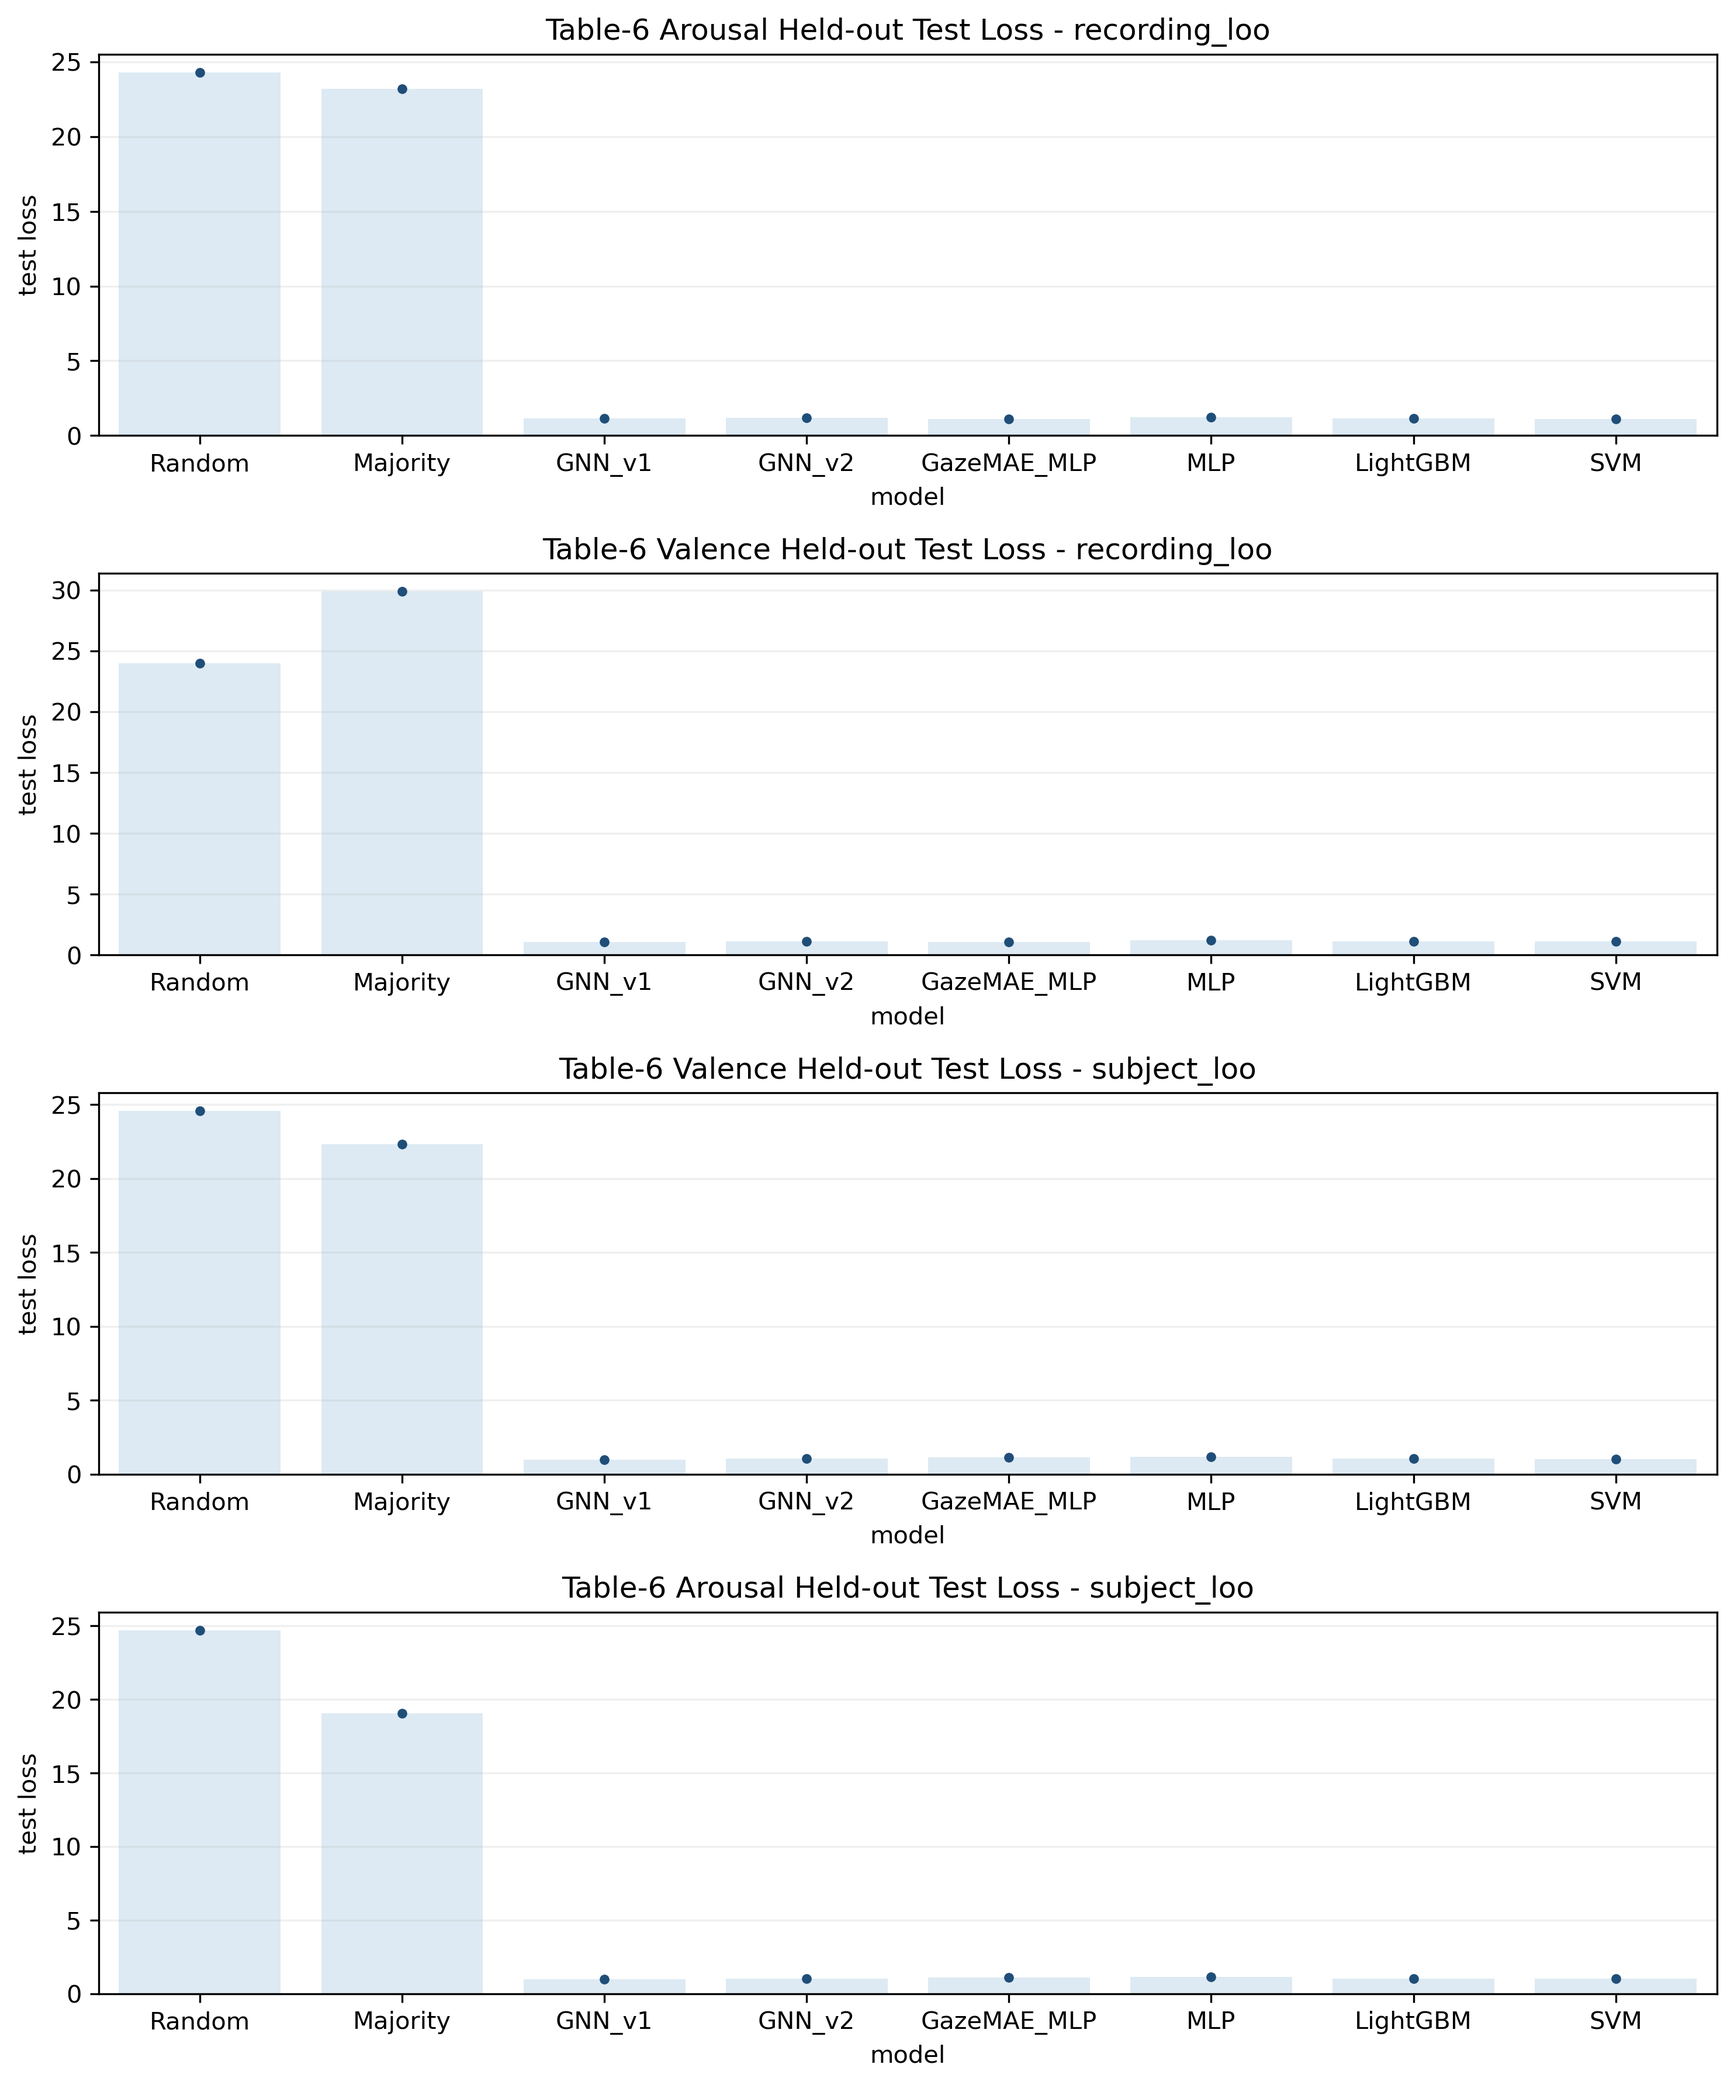
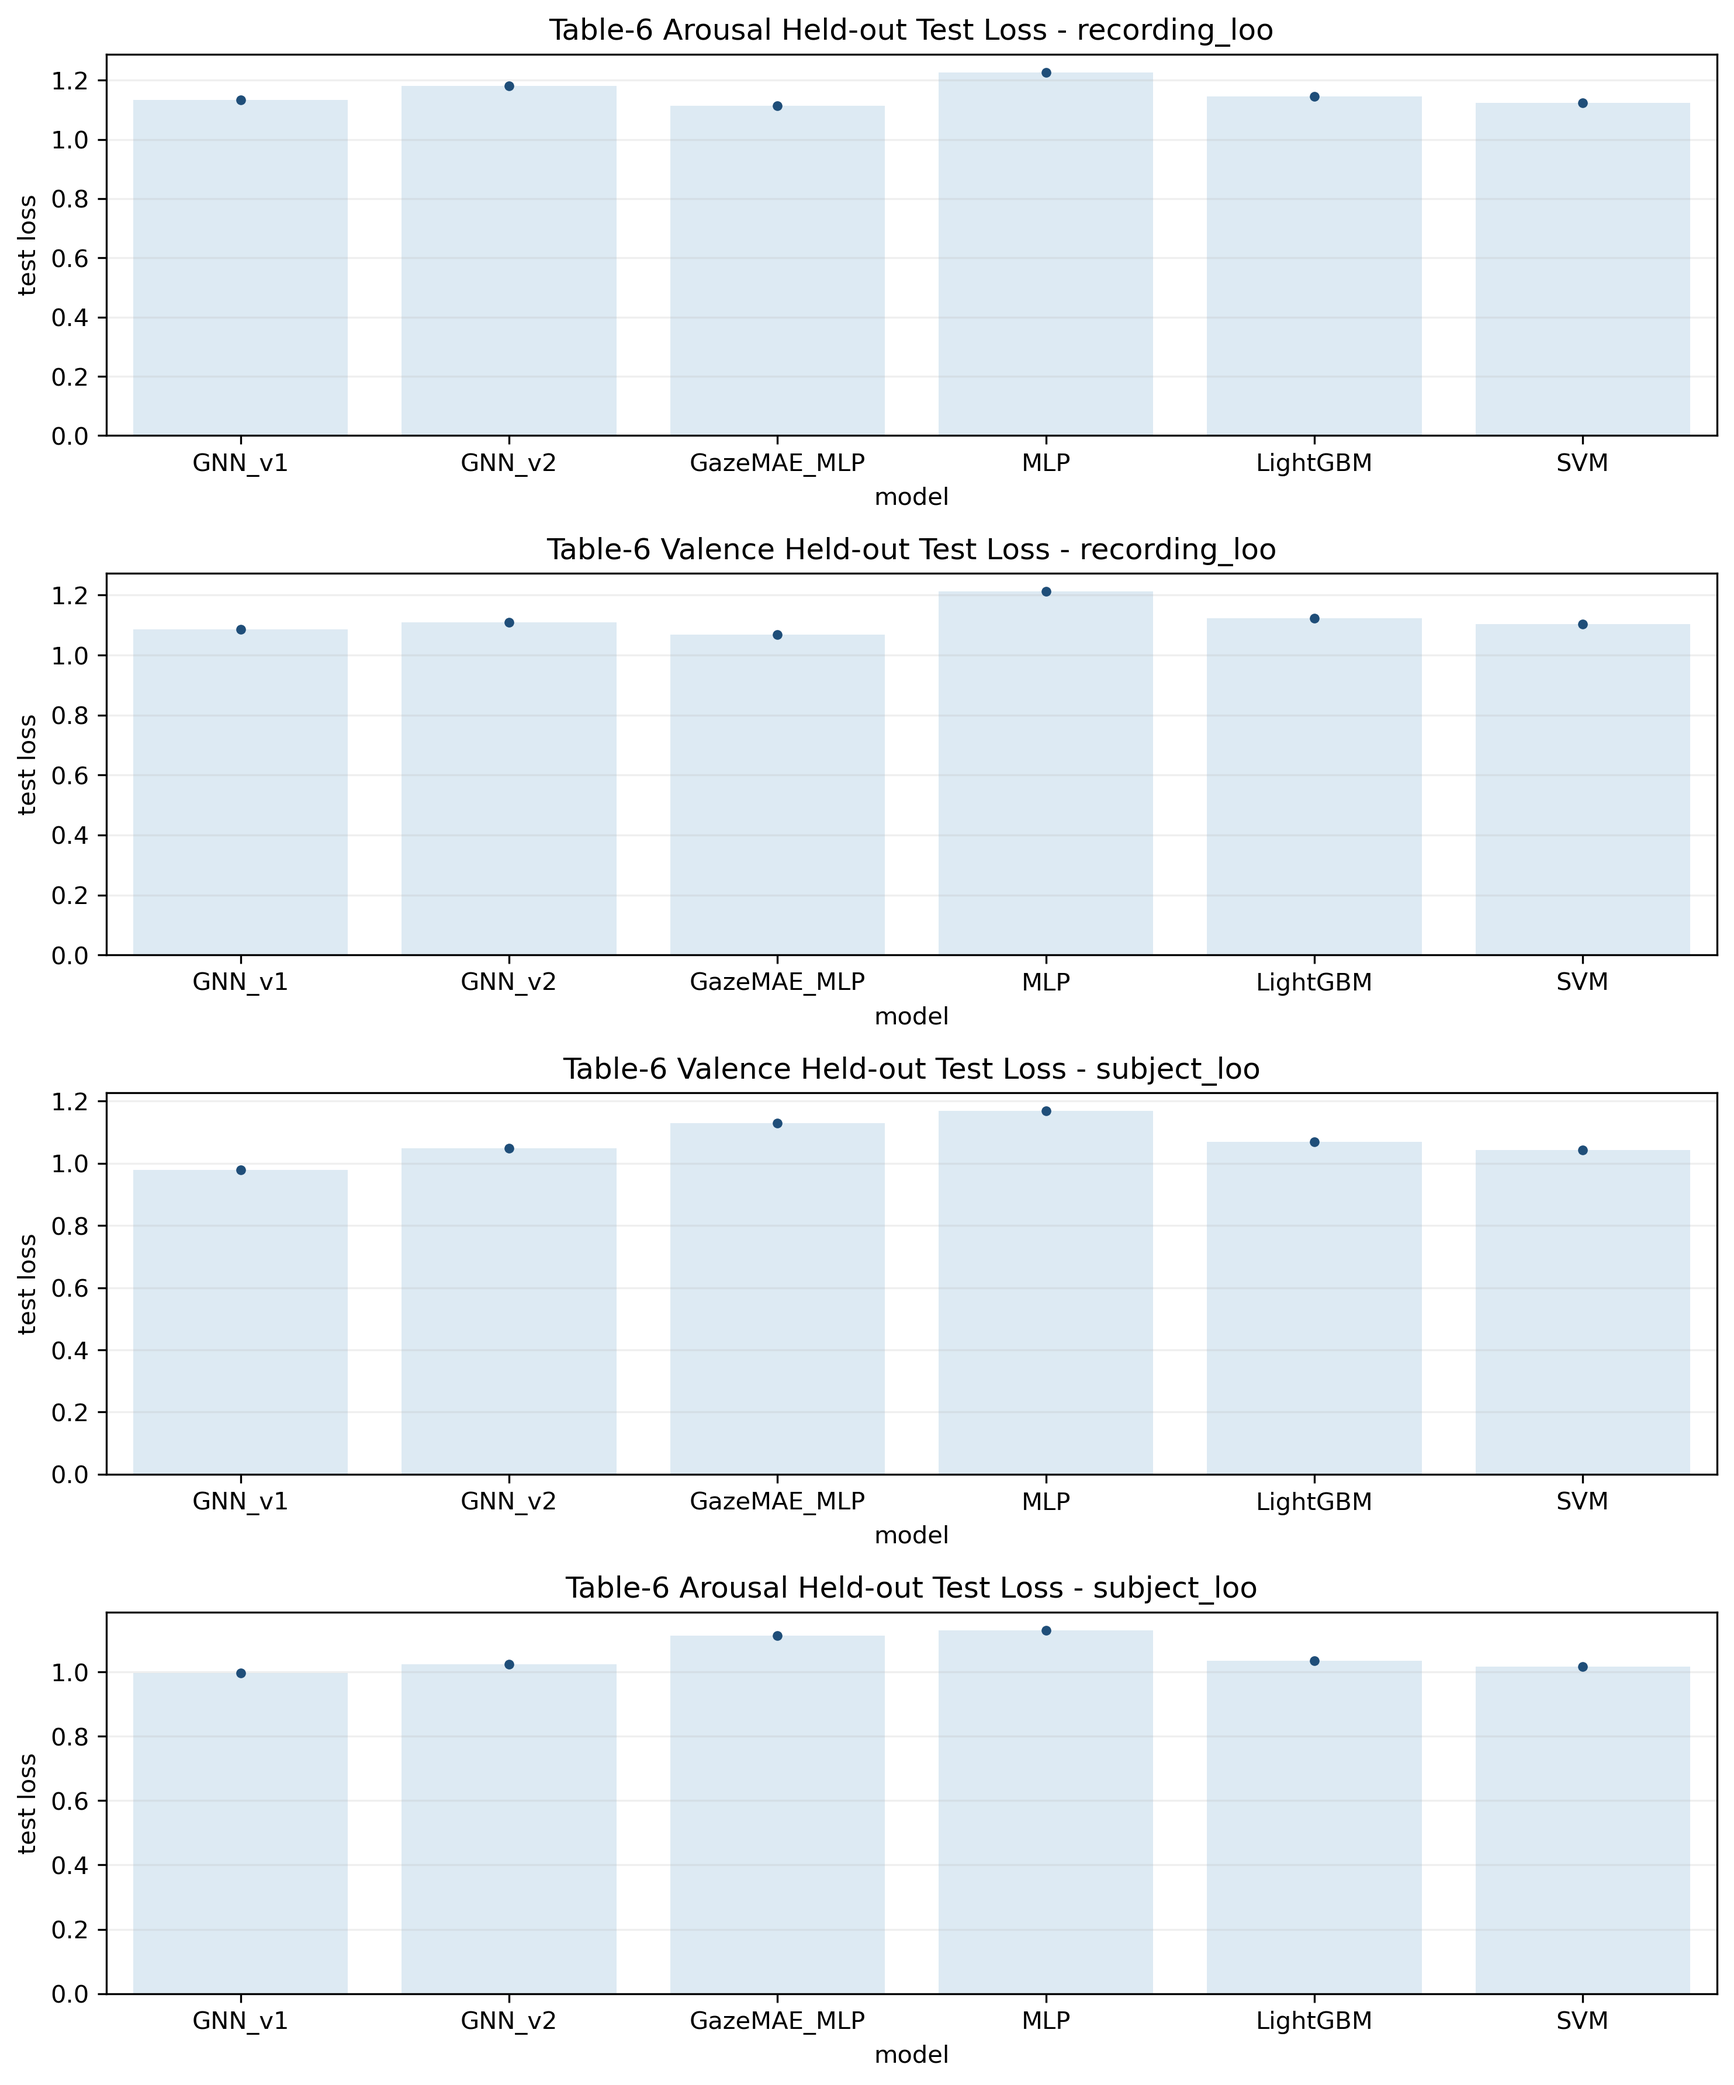
minor plotting fix

diff --git a/src/emotions/gnn_improvement_experiments/run_quick_v1_v2_comparison.py b/src/emotions/gnn_improvement_experiments/run_quick_v1_v2_comparison.py
@@ -1753,6 +1753,7 @@ def _plot_test_loss_summary(summary: pd.DataFrame, output_dir: Path) -> Path | N
         return None
 
     plot_df = summary[summary["status"] == "success"].copy()
+    plot_df = plot_df[~plot_df["model"].astype(str).isin({"Random", "Majority"})]
     plot_df["loss"] = pd.to_numeric(plot_df["loss"], errors="coerce")
     plot_df = plot_df.dropna(subset=["loss"])
     if plot_df.empty:

diff --git a/MEMORY.md b/MEMORY.md
@@ -93,6 +93,7 @@ recent work, plans, or decisions.
 - `GATConv` ignores scalar edge weights in both v1 and v2 model code, so weighted-edge comparisons should use `GCNConv` unless intentionally testing unweighted attention behavior.
 - Quick comparison supports multiple comma-separated CV strategies, class-balance diagnostics, multiclass training-history aggregation, task selection through `quick_comparison.table6_tasks`, and held-out test-loss plots.
 - Quick comparison training-progress loss plots include an aggregated split-panel plot, an aggregated combined train/validation/test plot, and per-fold combined loss plots under `plots/losses/`; aggregated loss plots use darker `mean ± std` bands and lighter min-max bands.
+- Quick comparison `test_loss_by_model.png` excludes `Random` and `Majority` because their log-loss values dominate the scale and obscure trained-model differences.
 - `GazeMAE_MLP` is available in the quick comparison runner as a baseline model alias (`gazemae`, `gazemae_mlp`, `GazeMAE_MLP`). It uses the same suite snapshots, CV splits, Table-6 mappings, summaries, label-distribution tables, loss plots, and confusion-matrix plotting as other multiclass baselines. The Table-6 low/high wrapper lives at `src/emotions/gnn_improvement_experiments/configs/quick_v1_v2/run_hci_experiment_suite_table6_low_high.yaml`.
 - GazeMAE embedding cache reuse is intentionally stable across timestamped quick/suite runs: when a suite snapshot manifest is available, the cache key uses `snapshot_hash`/`snapshot_cache_key` rather than the generated snapshot CSV path or modification time. The key also includes GazeMAE checkpoint file hashes and preprocessing settings, so embeddings are reused only for identical data/model/preprocessing identities. This was verified with a repeated small quick-comparison run.
 - GazeMAE runtime is now self-contained in this repository: `src/emotions/gazemae_model.py` implements the minimal inference encoder, and `models/gazemae/*-encoder-state.pt` stores converted encoder+bottleneck state dicts. The quick configs no longer depend on `/home/ppg/eyetracking/gazemae` at runtime.
